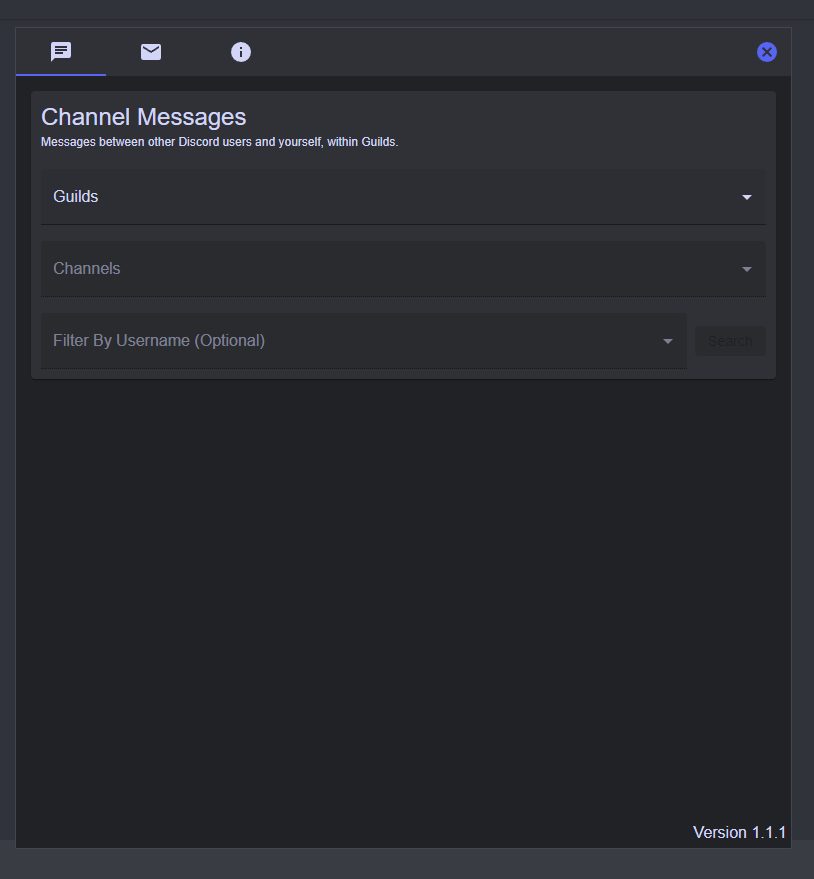
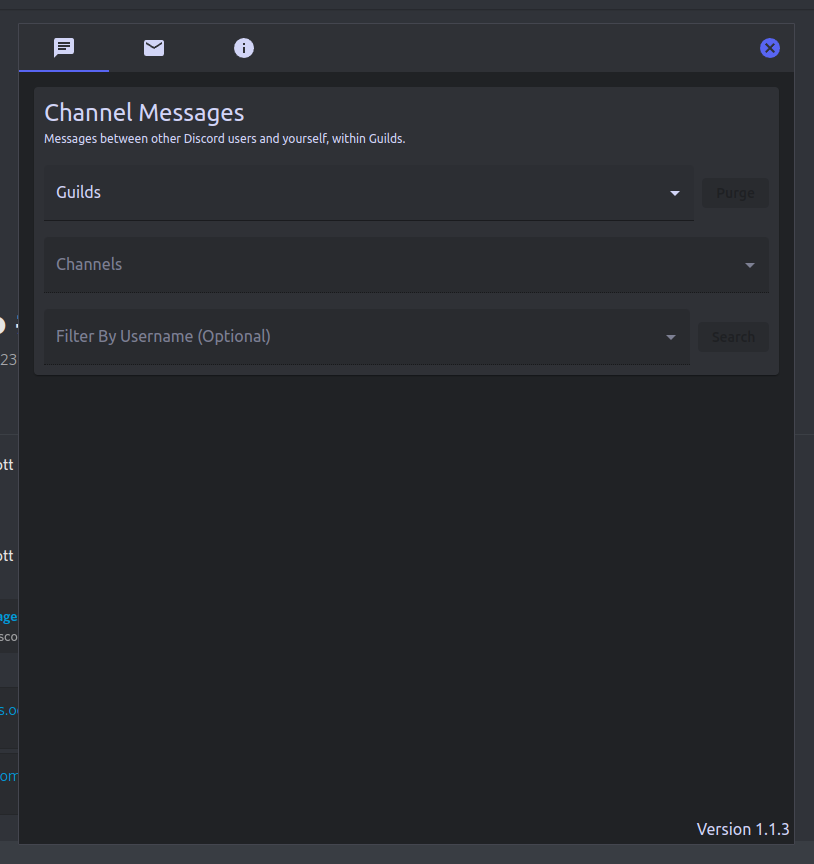
Update to version 1.1.3, update screenshots and readme

diff --git a/src/components/InjectedDialog/InjectedDialog.jsx b/src/components/InjectedDialog/InjectedDialog.jsx
@@ -46,7 +46,7 @@ function InjectedDialog() {
       {menuIndex === 1 && <DirectMessages />}
       {menuIndex === 2 && <About />}
       <Box className={classes.box}>
-        <Typography>Version 1.1.2</Typography>
+        <Typography>Version 1.1.3</Typography>
       </Box>
       <CloseWindowButton />
     </Box>

diff --git a/README.md b/README.md
@@ -1,3 +1,4 @@
+
 # Discrub
 
 **Discrub** is a Google Chrome extension that is used to Edit/Delete, Sort/Filter, and Export (HTML, PDF, and JSON supported) [Discord](https://discord.com/) messages. It can be installed via the [Chrome Webstore](https://chrome.google.com/webstore/detail/discrub/plhdclenpaecffbcefjmpkkbdpkmhhbj)
@@ -100,6 +101,29 @@ Written using [React](https://reactjs.org/) and hitting the [Discord API](https:
 <p  align="center">
 
 <img  src="https://raw.githubusercontent.com/prathercc/discrub-ext/master/discrub_screenshots/z10.png">
+
+</p>
+
+</details>
+
+<details>
+
+<summary>Purge Guild</summary>
+
+<p  align="center">
+
+<img  src="https://raw.githubusercontent.com/prathercc/discrub-ext/master/discrub_screenshots/z11.png">
+
+</p>
+<p  align="center">
+
+<img  src="https://raw.githubusercontent.com/prathercc/discrub-ext/master/discrub_screenshots/z12.png">
+
+</p>
+
+<p  align="center">
+
+<img  src="https://raw.githubusercontent.com/prathercc/discrub-ext/master/discrub_screenshots/z13.png">
 
 </p>
 
